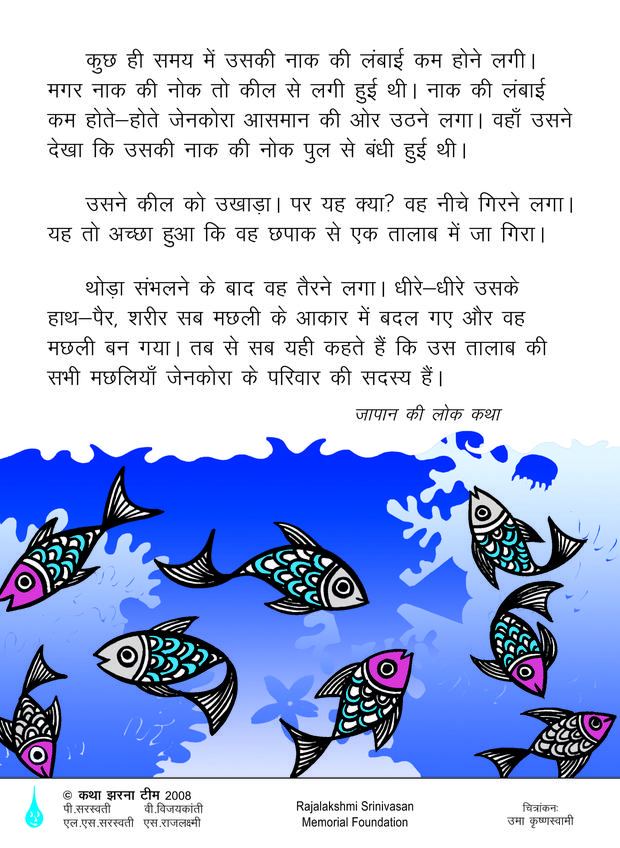
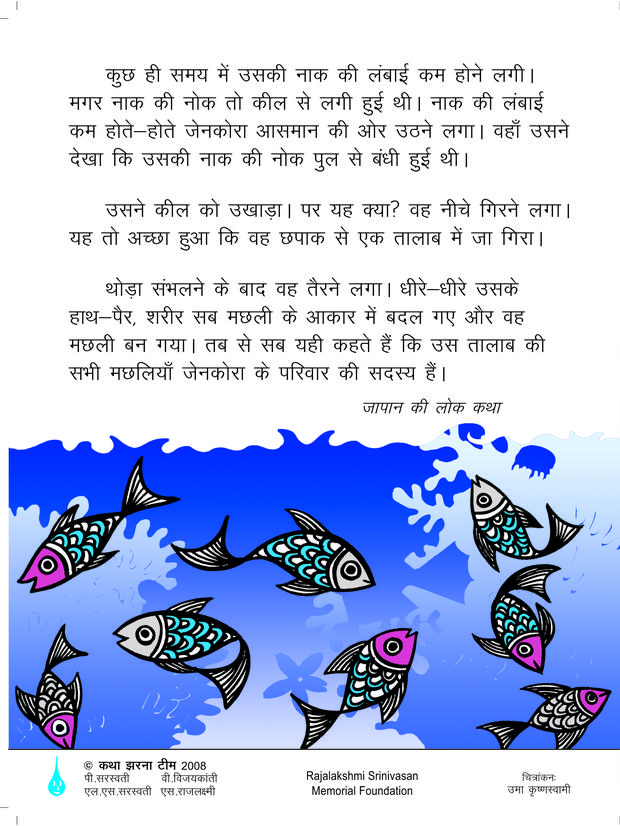
Cut story files using python

Changed region(s): [[0.0, 0.0605, 1.0, 0.9988], [0.7048, 0.7264, 0.7355, 0.7567], [0.3677, 0.5145, 0.3984, 0.5448]]

diff --git a/Story1.js b/Story1.js
@@ -11,22 +11,41 @@ function instantiateBookReader(selector, extraOptions) {
     data: [
       [
 		//One set
-	    { width: 620, height: 848,
-          uri: '../books/hindi_36_0_25p.jpg' },
-        { width: 620, height: 848,
-          uri: '../books/hindi_36_1_25p.jpg' },
+	    //{ width: 620, height: 826,
+      //    uri: 'small(0).jpg' },
+        { width: 620, height: 826,
+          uri: 'books/small_rightS39CMK(1-4).jpg' },
       ],
       [
-        { width: 620, height: 848,
-          uri: '../books/hindi_36_2_25p.jpg' },
-        { width: 620, height: 848,
-          uri: '../books/hindi_36_3_25p.jpg' },
+        { width: 620, height: 826,
+          uri: 'books/small_leftS39CMK(2-3).jpg' },
+        { width: 620, height: 826,
+          uri: 'books/small_rightS39CMK(2-3).jpg' },
       ],
       [
-        { width: 620, height: 848,
-          uri: '../books/hindi_36_4_25p.jpg' },
-	    { width: 620, height: 848,
-          uri: '../books/hindi_36_0_25p.jpg' },
+        { width: 620, height: 826,
+          uri: 'books/small_leftS39CMK(1-4).jpg' },
+	    //{ width: 620, height: 826,
+      //    uri: 'small(0).jpg' },
+      ],
+      [
+      		//One set
+	    //{ width: 620, height: 826,
+      //    uri: 'small(0).jpg' },
+      { width: 620, height: 826,
+        uri: 'books/small_rightS47CMK(1-4).jpg' },
+    ],
+      [
+      { width: 620, height: 826,
+        uri: 'books/small_leftS47CMK(2-3).jpg' },
+      { width: 620, height: 826,
+        uri: 'books/small_rightS47CMK(2-3).jpg' },
+      ],
+      [
+      { width: 620, height: 826,
+        uri: 'books/small_leftS47CMK(1-4).jpg' },
+      //{ width: 620, height: 826,
+      //    uri: 'small(0).jpg' },
       ],
     ],
 

diff --git a/index.html b/index.html
@@ -8,15 +8,15 @@
     <meta name="apple-mobile-web-app-capable" content="yes">
 
     <!-- JS dependencies -->
-    <script src="../BookReader/jquery-1.10.1.js"></script>
+    <!-- <script src="../BookReader/jquery-1.10.1.js"></script>
     <script src="../BookReader/jquery-ui-1.12.0.min.js"></script>
     <script src="../BookReader/jquery.browser.min.js"></script>
     <script src="../BookReader/dragscrollable-br.js"></script>
-    <script src="../BookReader/jquery.colorbox-min.js"></script>
+    <script src="../BookReader/jquery.colorbox-min.js"></script> -->
 
     <!-- BookReader and plugins -->
-    <link rel="stylesheet" href="BookReader/BookReader.css"/>
-    <script src="BookReader/BookReader.js"></script>
+    <!-- <link rel="stylesheet" href="BookReader/BookReader.css"/>
+    <script src="BookReader/BookReader.js"></script> --> -->
 
     <!-- Custom CSS overrides -->
     <!-- <link rel="stylesheet" href="css/BookReaderDemo.css"/> -->
@@ -52,7 +52,7 @@
 
   <h2><a href="books/index.html?storyid=hs081">81. ढोल</a></h2>
 
-
+  <h2><a href="story1.html">Test</a></h2>
 
 </body>
 </html>

diff --git a/books/index.html b/books/index.html
@@ -46,21 +46,21 @@ html, body { width: 100%; height: 100%; margin: 0; padding: 0; }
   var options = {
     data: [
       [
-        { width: 620, height: 848,
+        { width: 620, height: 826,
           uri: 'small(0).jpg' },
-	      { width: 620, height: 848,
+	      { width: 620, height: 826,
           uri: storyid + '/small(1).jpg' },
       ],
       [
-        { width: 620, height: 848,
+        { width: 620, height: 826,
           uri: storyid + '/small(2).jpg' },
-        { width: 620, height: 848,
+        { width: 620, height: 826,
           uri: storyid + '/small(3).jpg' },
       ],
       [
-        { width: 620, height: 848,
+        { width: 620, height: 826,
           uri: storyid + '/small(4).jpg' },
-        { width: 620, height: 848,
+        { width: 620, height: 826,
           uri: 'small(0).jpg' },
       ],
     ],
